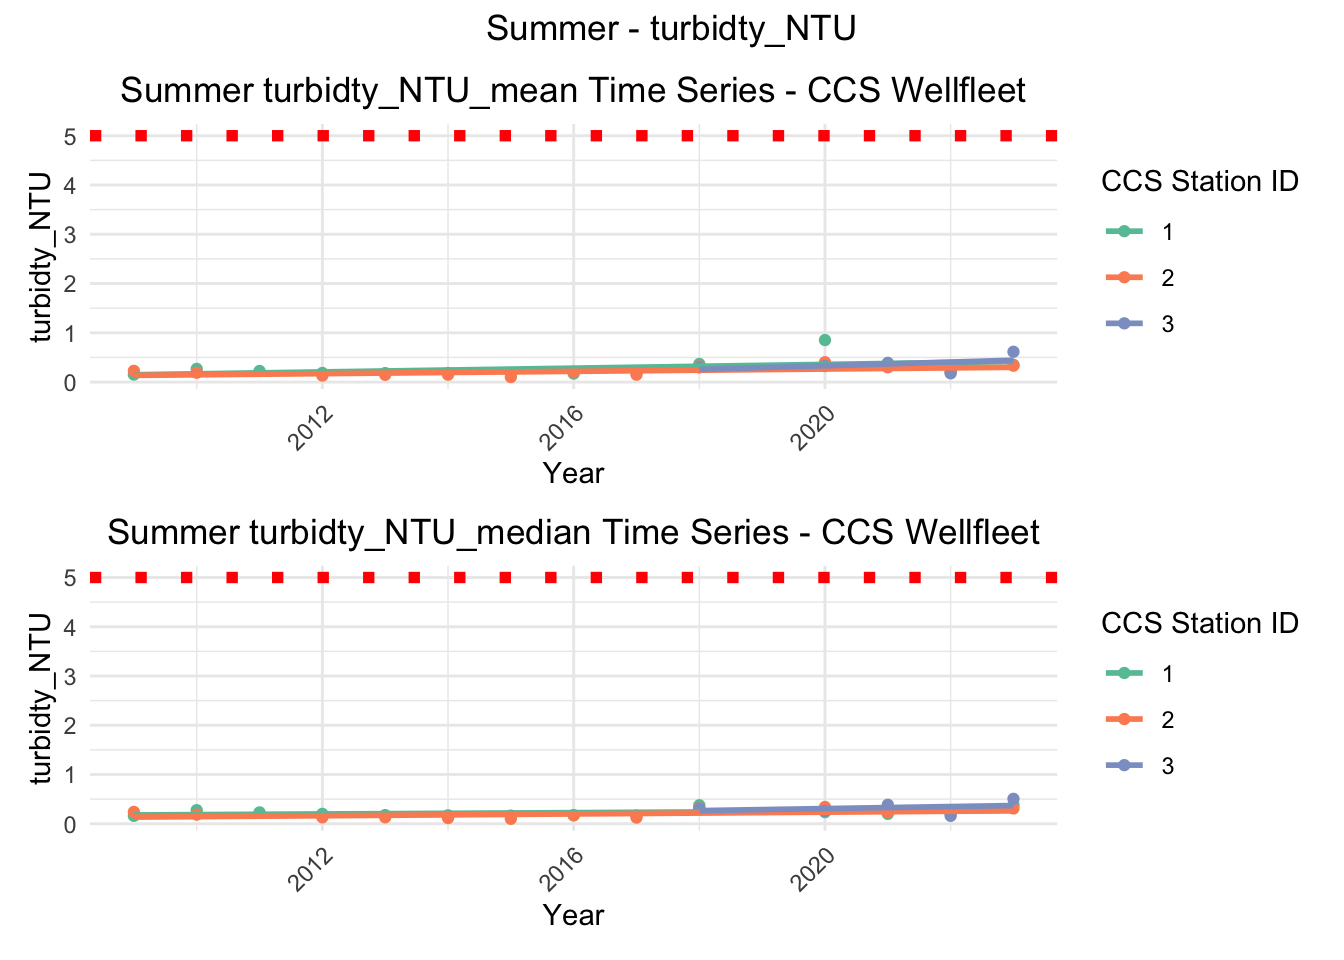
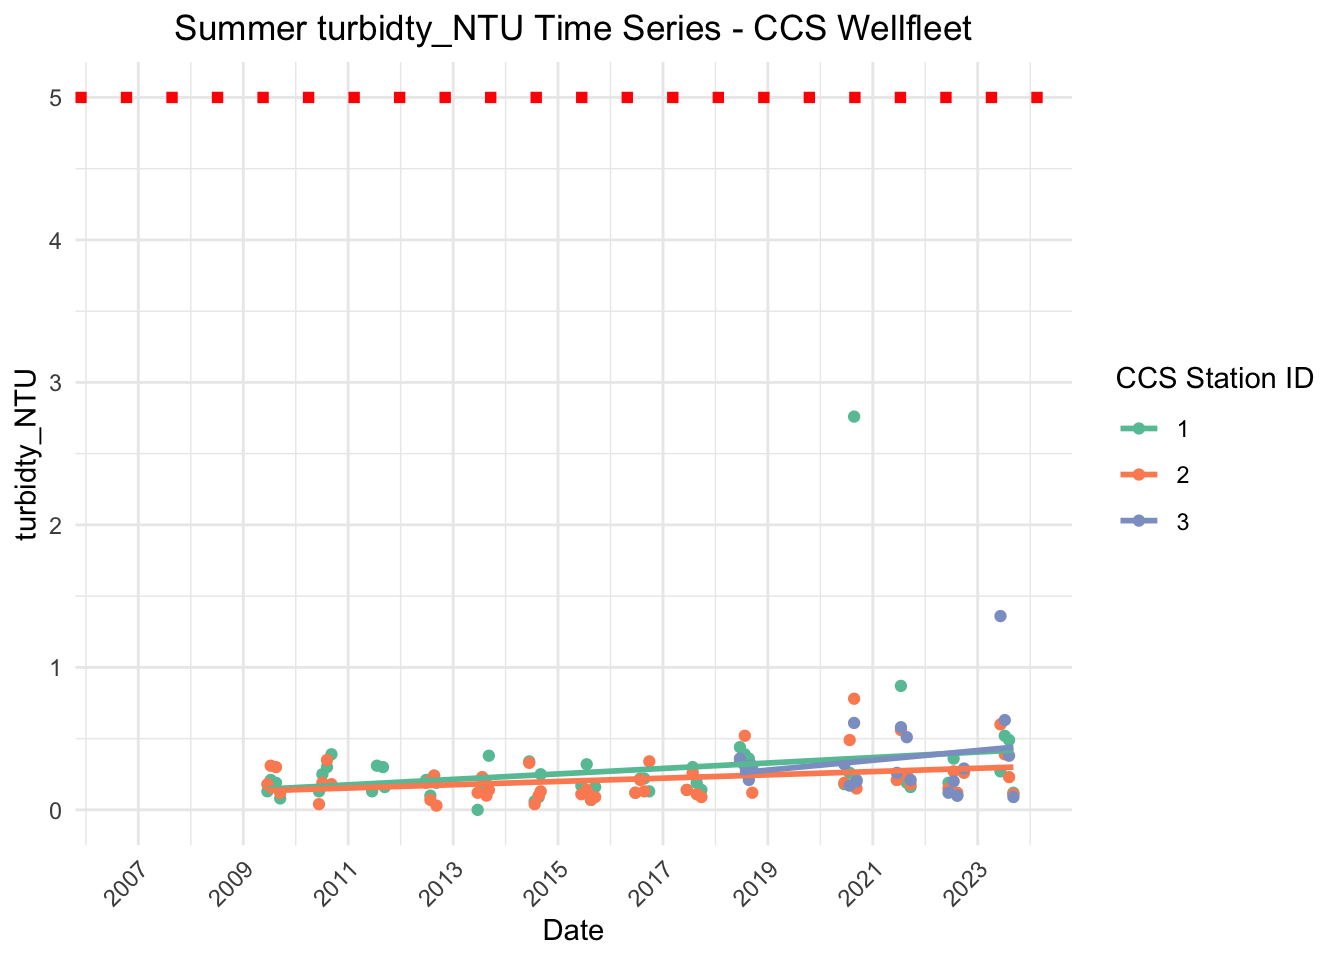
Check data for duplicate rows. Add monthly summer plots.

diff --git a/quarto_docs/ccs_stations.html b/quarto_docs/ccs_stations.html
@@ -301,7 +301,7 @@ pre > code.sourceCode > span > a:first-child::before { text-decoration: underlin
 <span id="cb7-12"><a href="#cb7-12" aria-hidden="true" tabindex="-1"></a>    <span class="fu">labs</span>(<span class="at">x =</span> <span class="st">"Date"</span>,</span>
 <span id="cb7-13"><a href="#cb7-13" aria-hidden="true" tabindex="-1"></a>         <span class="at">y =</span> var,</span>
 <span id="cb7-14"><a href="#cb7-14" aria-hidden="true" tabindex="-1"></a>         <span class="at">color =</span> <span class="st">"CCS Station ID"</span>,</span>
-<span id="cb7-15"><a href="#cb7-15" aria-hidden="true" tabindex="-1"></a>         <span class="at">title =</span> <span class="fu">paste</span>(var, <span class="st">" Time Series - CCS Wellfleet"</span>)) <span class="sc">+</span></span>
+<span id="cb7-15"><a href="#cb7-15" aria-hidden="true" tabindex="-1"></a>         <span class="at">title =</span> <span class="fu">paste</span>(var, <span class="st">"Time Series - CCS Wellfleet"</span>)) <span class="sc">+</span></span>
 <span id="cb7-16"><a href="#cb7-16" aria-hidden="true" tabindex="-1"></a>    <span class="fu">scale_x_datetime</span>(</span>
 <span id="cb7-17"><a href="#cb7-17" aria-hidden="true" tabindex="-1"></a>      <span class="at">limits =</span> <span class="fu">c</span>(start_year, end_year),</span>
 <span id="cb7-18"><a href="#cb7-18" aria-hidden="true" tabindex="-1"></a>      <span class="at">date_breaks =</span> <span class="st">"2 year"</span>, </span>
@@ -502,49 +502,30 @@ pre > code.sourceCode > span > a:first-child::before { text-decoration: underlin
 </figure>
 </div>
 </div>
-<div class="sourceCode cell-code" id="cb9"><pre class="sourceCode r code-with-copy"><code class="sourceCode r"><span id="cb9-1"><a href="#cb9-1" aria-hidden="true" tabindex="-1"></a><span class="co"># For each relevant variable, plot Summer mean and mean values</span></span>
+<div class="sourceCode cell-code" id="cb9"><pre class="sourceCode r code-with-copy"><code class="sourceCode r"><span id="cb9-1"><a href="#cb9-1" aria-hidden="true" tabindex="-1"></a><span class="co"># For each relevant variable, plot all Summer ~monthly data over time</span></span>
 <span id="cb9-2"><a href="#cb9-2" aria-hidden="true" tabindex="-1"></a><span class="cf">for</span> (var <span class="cf">in</span> wq_variables) {</span>
-<span id="cb9-3"><a href="#cb9-3" aria-hidden="true" tabindex="-1"></a>  </span>
-<span id="cb9-4"><a href="#cb9-4" aria-hidden="true" tabindex="-1"></a>  <span class="co"># Create summer mean plot</span></span>
-<span id="cb9-5"><a href="#cb9-5" aria-hidden="true" tabindex="-1"></a>  var_name <span class="ot">&lt;-</span> <span class="fu">paste0</span>(var, <span class="st">"_mean"</span>)</span>
-<span id="cb9-6"><a href="#cb9-6" aria-hidden="true" tabindex="-1"></a>  p_1 <span class="ot">&lt;-</span> <span class="fu">ggplot</span>(ccs_wellfleet_summers, <span class="fu">aes</span>(<span class="at">x =</span> year_collected,</span>
-<span id="cb9-7"><a href="#cb9-7" aria-hidden="true" tabindex="-1"></a>                                          <span class="at">y =</span> .data[[var_name]],</span>
-<span id="cb9-8"><a href="#cb9-8" aria-hidden="true" tabindex="-1"></a>                                          <span class="at">color =</span> <span class="fu">as.factor</span>(internal_station_id))) <span class="sc">+</span></span>
-<span id="cb9-9"><a href="#cb9-9" aria-hidden="true" tabindex="-1"></a>    <span class="fu">geom_point</span>() <span class="sc">+</span></span>
-<span id="cb9-10"><a href="#cb9-10" aria-hidden="true" tabindex="-1"></a>    <span class="fu">geom_smooth</span>(<span class="at">method =</span> <span class="st">"lm"</span>, <span class="at">se =</span> <span class="cn">FALSE</span>) <span class="sc">+</span></span>
-<span id="cb9-11"><a href="#cb9-11" aria-hidden="true" tabindex="-1"></a>    </span>
-<span id="cb9-12"><a href="#cb9-12" aria-hidden="true" tabindex="-1"></a>    <span class="co"># add threshold line, if available</span></span>
-<span id="cb9-13"><a href="#cb9-13" aria-hidden="true" tabindex="-1"></a>    <span class="fu">geom_hline</span>(<span class="at">yintercept =</span> thresholds[var], <span class="at">linetype =</span> <span class="st">'dotted'</span>, <span class="at">color =</span> <span class="st">'red'</span>, <span class="at">linewidth =</span> <span class="dv">2</span>) <span class="sc">+</span></span>
-<span id="cb9-14"><a href="#cb9-14" aria-hidden="true" tabindex="-1"></a>    </span>
-<span id="cb9-15"><a href="#cb9-15" aria-hidden="true" tabindex="-1"></a>    <span class="fu">labs</span>(<span class="at">x =</span> <span class="st">"Year"</span>,</span>
-<span id="cb9-16"><a href="#cb9-16" aria-hidden="true" tabindex="-1"></a>         <span class="at">y =</span> var,</span>
-<span id="cb9-17"><a href="#cb9-17" aria-hidden="true" tabindex="-1"></a>         <span class="at">color =</span> <span class="st">"CCS Station ID"</span>,</span>
-<span id="cb9-18"><a href="#cb9-18" aria-hidden="true" tabindex="-1"></a>         <span class="at">title =</span> <span class="fu">paste</span>(<span class="st">"Summer"</span>, var_name, <span class="st">"Time Series - CCS Wellfleet"</span>)) <span class="sc">+</span></span>
-<span id="cb9-19"><a href="#cb9-19" aria-hidden="true" tabindex="-1"></a>    <span class="fu">scale_color_brewer</span>(<span class="at">palette =</span> <span class="st">"Set2"</span>)</span>
-<span id="cb9-20"><a href="#cb9-20" aria-hidden="true" tabindex="-1"></a>  </span>
-<span id="cb9-21"><a href="#cb9-21" aria-hidden="true" tabindex="-1"></a>  <span class="co"># Create summer median plot</span></span>
-<span id="cb9-22"><a href="#cb9-22" aria-hidden="true" tabindex="-1"></a>  var_name <span class="ot">&lt;-</span> <span class="fu">paste0</span>(var, <span class="st">"_median"</span>)</span>
-<span id="cb9-23"><a href="#cb9-23" aria-hidden="true" tabindex="-1"></a>  p_2 <span class="ot">&lt;-</span> <span class="fu">ggplot</span>(ccs_wellfleet_summers, <span class="fu">aes</span>(<span class="at">x =</span> year_collected,</span>
-<span id="cb9-24"><a href="#cb9-24" aria-hidden="true" tabindex="-1"></a>                                          <span class="at">y =</span> .data[[var_name]],</span>
-<span id="cb9-25"><a href="#cb9-25" aria-hidden="true" tabindex="-1"></a>                                          <span class="at">color =</span> <span class="fu">as.factor</span>(internal_station_id))) <span class="sc">+</span></span>
-<span id="cb9-26"><a href="#cb9-26" aria-hidden="true" tabindex="-1"></a>    <span class="fu">geom_point</span>() <span class="sc">+</span></span>
-<span id="cb9-27"><a href="#cb9-27" aria-hidden="true" tabindex="-1"></a>    <span class="fu">geom_smooth</span>(<span class="at">method =</span> <span class="st">"lm"</span>, <span class="at">se =</span> <span class="cn">FALSE</span>) <span class="sc">+</span></span>
-<span id="cb9-28"><a href="#cb9-28" aria-hidden="true" tabindex="-1"></a>    </span>
-<span id="cb9-29"><a href="#cb9-29" aria-hidden="true" tabindex="-1"></a>    <span class="co"># add threshold line, if available</span></span>
-<span id="cb9-30"><a href="#cb9-30" aria-hidden="true" tabindex="-1"></a>    <span class="fu">geom_hline</span>(<span class="at">yintercept =</span> thresholds[var], <span class="at">linetype =</span> <span class="st">'dotted'</span>, <span class="at">color =</span> <span class="st">'red'</span>, <span class="at">linewidth =</span> <span class="dv">2</span>) <span class="sc">+</span></span>
-<span id="cb9-31"><a href="#cb9-31" aria-hidden="true" tabindex="-1"></a>    </span>
-<span id="cb9-32"><a href="#cb9-32" aria-hidden="true" tabindex="-1"></a>    <span class="fu">labs</span>(<span class="at">x =</span> <span class="st">"Year"</span>,</span>
-<span id="cb9-33"><a href="#cb9-33" aria-hidden="true" tabindex="-1"></a>         <span class="at">y =</span> var,</span>
-<span id="cb9-34"><a href="#cb9-34" aria-hidden="true" tabindex="-1"></a>         <span class="at">color =</span> <span class="st">"CCS Station ID"</span>,</span>
-<span id="cb9-35"><a href="#cb9-35" aria-hidden="true" tabindex="-1"></a>         <span class="at">title =</span> <span class="fu">paste</span>(<span class="st">"Summer"</span>, var_name, <span class="st">"Time Series - CCS Wellfleet"</span>)) <span class="sc">+</span></span>
-<span id="cb9-36"><a href="#cb9-36" aria-hidden="true" tabindex="-1"></a>    <span class="fu">scale_color_brewer</span>(<span class="at">palette =</span> <span class="st">"Set2"</span>)</span>
-<span id="cb9-37"><a href="#cb9-37" aria-hidden="true" tabindex="-1"></a>  </span>
-<span id="cb9-38"><a href="#cb9-38" aria-hidden="true" tabindex="-1"></a>  combined_plot <span class="ot">&lt;-</span> p_1 <span class="sc">+</span> p_2 <span class="sc">+</span> </span>
-<span id="cb9-39"><a href="#cb9-39" aria-hidden="true" tabindex="-1"></a>    <span class="fu">plot_layout</span>(<span class="at">ncol =</span> <span class="dv">1</span>, <span class="at">heights =</span> <span class="fu">c</span>(<span class="dv">1</span>, <span class="dv">1</span>)) <span class="sc">+</span></span>
-<span id="cb9-40"><a href="#cb9-40" aria-hidden="true" tabindex="-1"></a>    <span class="fu">plot_annotation</span>(<span class="at">title =</span> <span class="fu">paste</span>(<span class="st">"Summer -"</span>, var))</span>
-<span id="cb9-41"><a href="#cb9-41" aria-hidden="true" tabindex="-1"></a>  </span>
-<span id="cb9-42"><a href="#cb9-42" aria-hidden="true" tabindex="-1"></a>  <span class="fu">print</span>(combined_plot)</span>
-<span id="cb9-43"><a href="#cb9-43" aria-hidden="true" tabindex="-1"></a>}</span></code><button title="Copy to Clipboard" class="code-copy-button"><i class="bi"></i></button></pre></div>
+<span id="cb9-3"><a href="#cb9-3" aria-hidden="true" tabindex="-1"></a>  p <span class="ot">&lt;-</span> <span class="fu">ggplot</span>(ccs_wellfleet_full_summers, <span class="fu">aes</span>(<span class="at">x =</span> collected_at,</span>
+<span id="cb9-4"><a href="#cb9-4" aria-hidden="true" tabindex="-1"></a>                                      <span class="at">y =</span> .data[[var]],</span>
+<span id="cb9-5"><a href="#cb9-5" aria-hidden="true" tabindex="-1"></a>                                      <span class="at">color =</span> <span class="fu">as.factor</span>(internal_station_id))) <span class="sc">+</span></span>
+<span id="cb9-6"><a href="#cb9-6" aria-hidden="true" tabindex="-1"></a>    <span class="fu">geom_point</span>() <span class="sc">+</span></span>
+<span id="cb9-7"><a href="#cb9-7" aria-hidden="true" tabindex="-1"></a>    <span class="fu">geom_smooth</span>(<span class="at">method =</span> <span class="st">"lm"</span>, <span class="at">se =</span> <span class="cn">FALSE</span>) <span class="sc">+</span></span>
+<span id="cb9-8"><a href="#cb9-8" aria-hidden="true" tabindex="-1"></a></span>
+<span id="cb9-9"><a href="#cb9-9" aria-hidden="true" tabindex="-1"></a>    <span class="co"># add threshold line, if available</span></span>
+<span id="cb9-10"><a href="#cb9-10" aria-hidden="true" tabindex="-1"></a>    <span class="fu">geom_hline</span>(<span class="at">yintercept =</span> thresholds[var], <span class="at">linetype =</span> <span class="st">'dotted'</span>, <span class="at">color =</span> <span class="st">'red'</span>, <span class="at">linewidth =</span> <span class="dv">2</span>) <span class="sc">+</span></span>
+<span id="cb9-11"><a href="#cb9-11" aria-hidden="true" tabindex="-1"></a></span>
+<span id="cb9-12"><a href="#cb9-12" aria-hidden="true" tabindex="-1"></a>    <span class="fu">labs</span>(<span class="at">x =</span> <span class="st">"Date"</span>,</span>
+<span id="cb9-13"><a href="#cb9-13" aria-hidden="true" tabindex="-1"></a>         <span class="at">y =</span> var,</span>
+<span id="cb9-14"><a href="#cb9-14" aria-hidden="true" tabindex="-1"></a>         <span class="at">color =</span> <span class="st">"CCS Station ID"</span>,</span>
+<span id="cb9-15"><a href="#cb9-15" aria-hidden="true" tabindex="-1"></a>         <span class="at">title =</span> <span class="fu">paste</span>(<span class="st">"Summer"</span>, var, <span class="st">"Time Series - CCS Wellfleet"</span>)) <span class="sc">+</span></span>
+<span id="cb9-16"><a href="#cb9-16" aria-hidden="true" tabindex="-1"></a>    <span class="fu">scale_x_datetime</span>(</span>
+<span id="cb9-17"><a href="#cb9-17" aria-hidden="true" tabindex="-1"></a>      <span class="at">limits =</span> <span class="fu">c</span>(start_year, end_year),</span>
+<span id="cb9-18"><a href="#cb9-18" aria-hidden="true" tabindex="-1"></a>      <span class="at">date_breaks =</span> <span class="st">"2 year"</span>,</span>
+<span id="cb9-19"><a href="#cb9-19" aria-hidden="true" tabindex="-1"></a>      <span class="at">date_labels =</span> <span class="st">"%Y"</span>,</span>
+<span id="cb9-20"><a href="#cb9-20" aria-hidden="true" tabindex="-1"></a>      <span class="at">labels =</span> <span class="fu">date_format</span>(<span class="st">"%Y"</span>)) <span class="sc">+</span></span>
+<span id="cb9-21"><a href="#cb9-21" aria-hidden="true" tabindex="-1"></a>    <span class="fu">scale_color_brewer</span>(<span class="at">palette =</span> <span class="st">"Set2"</span>)</span>
+<span id="cb9-22"><a href="#cb9-22" aria-hidden="true" tabindex="-1"></a></span>
+<span id="cb9-23"><a href="#cb9-23" aria-hidden="true" tabindex="-1"></a>  <span class="fu">print</span>(p)</span>
+<span id="cb9-24"><a href="#cb9-24" aria-hidden="true" tabindex="-1"></a>}</span></code><button title="Copy to Clipboard" class="code-copy-button"><i class="bi"></i></button></pre></div>
 <div class="cell-output-display">
 <div>
 <figure class="figure">
@@ -619,6 +600,126 @@ pre > code.sourceCode > span > a:first-child::before { text-decoration: underlin
 <div>
 <figure class="figure">
 <p><img src="ccs_stations_files/figure-html/Plot%20All%20Data%20Over%20Time-33.png" class="img-fluid figure-img" width="672"></p>
+</figure>
+</div>
+</div>
+<div class="sourceCode cell-code" id="cb10"><pre class="sourceCode r code-with-copy"><code class="sourceCode r"><span id="cb10-1"><a href="#cb10-1" aria-hidden="true" tabindex="-1"></a><span class="co"># For each relevant variable, plot Summer mean and mean values</span></span>
+<span id="cb10-2"><a href="#cb10-2" aria-hidden="true" tabindex="-1"></a><span class="cf">for</span> (var <span class="cf">in</span> wq_variables) {</span>
+<span id="cb10-3"><a href="#cb10-3" aria-hidden="true" tabindex="-1"></a>  </span>
+<span id="cb10-4"><a href="#cb10-4" aria-hidden="true" tabindex="-1"></a>  <span class="co"># Create summer mean plot</span></span>
+<span id="cb10-5"><a href="#cb10-5" aria-hidden="true" tabindex="-1"></a>  var_name <span class="ot">&lt;-</span> <span class="fu">paste0</span>(var, <span class="st">"_mean"</span>)</span>
+<span id="cb10-6"><a href="#cb10-6" aria-hidden="true" tabindex="-1"></a>  p_1 <span class="ot">&lt;-</span> <span class="fu">ggplot</span>(ccs_wellfleet_summers, <span class="fu">aes</span>(<span class="at">x =</span> year_collected,</span>
+<span id="cb10-7"><a href="#cb10-7" aria-hidden="true" tabindex="-1"></a>                                          <span class="at">y =</span> .data[[var_name]],</span>
+<span id="cb10-8"><a href="#cb10-8" aria-hidden="true" tabindex="-1"></a>                                          <span class="at">color =</span> <span class="fu">as.factor</span>(internal_station_id))) <span class="sc">+</span></span>
+<span id="cb10-9"><a href="#cb10-9" aria-hidden="true" tabindex="-1"></a>    <span class="fu">geom_point</span>() <span class="sc">+</span></span>
+<span id="cb10-10"><a href="#cb10-10" aria-hidden="true" tabindex="-1"></a>    <span class="fu">geom_smooth</span>(<span class="at">method =</span> <span class="st">"lm"</span>, <span class="at">se =</span> <span class="cn">FALSE</span>) <span class="sc">+</span></span>
+<span id="cb10-11"><a href="#cb10-11" aria-hidden="true" tabindex="-1"></a>    </span>
+<span id="cb10-12"><a href="#cb10-12" aria-hidden="true" tabindex="-1"></a>    <span class="co"># add threshold line, if available</span></span>
+<span id="cb10-13"><a href="#cb10-13" aria-hidden="true" tabindex="-1"></a>    <span class="fu">geom_hline</span>(<span class="at">yintercept =</span> thresholds[var], <span class="at">linetype =</span> <span class="st">'dotted'</span>, <span class="at">color =</span> <span class="st">'red'</span>, <span class="at">linewidth =</span> <span class="dv">2</span>) <span class="sc">+</span></span>
+<span id="cb10-14"><a href="#cb10-14" aria-hidden="true" tabindex="-1"></a>    </span>
+<span id="cb10-15"><a href="#cb10-15" aria-hidden="true" tabindex="-1"></a>    <span class="fu">labs</span>(<span class="at">x =</span> <span class="st">"Year"</span>,</span>
+<span id="cb10-16"><a href="#cb10-16" aria-hidden="true" tabindex="-1"></a>         <span class="at">y =</span> var,</span>
+<span id="cb10-17"><a href="#cb10-17" aria-hidden="true" tabindex="-1"></a>         <span class="at">color =</span> <span class="st">"CCS Station ID"</span>,</span>
+<span id="cb10-18"><a href="#cb10-18" aria-hidden="true" tabindex="-1"></a>         <span class="at">title =</span> <span class="fu">paste</span>(<span class="st">"Summer"</span>, var_name, <span class="st">"Time Series - CCS Wellfleet"</span>)) <span class="sc">+</span></span>
+<span id="cb10-19"><a href="#cb10-19" aria-hidden="true" tabindex="-1"></a>    <span class="fu">scale_color_brewer</span>(<span class="at">palette =</span> <span class="st">"Set2"</span>)</span>
+<span id="cb10-20"><a href="#cb10-20" aria-hidden="true" tabindex="-1"></a>  </span>
+<span id="cb10-21"><a href="#cb10-21" aria-hidden="true" tabindex="-1"></a>  <span class="co"># Create summer median plot</span></span>
+<span id="cb10-22"><a href="#cb10-22" aria-hidden="true" tabindex="-1"></a>  var_name <span class="ot">&lt;-</span> <span class="fu">paste0</span>(var, <span class="st">"_median"</span>)</span>
+<span id="cb10-23"><a href="#cb10-23" aria-hidden="true" tabindex="-1"></a>  p_2 <span class="ot">&lt;-</span> <span class="fu">ggplot</span>(ccs_wellfleet_summers, <span class="fu">aes</span>(<span class="at">x =</span> year_collected,</span>
+<span id="cb10-24"><a href="#cb10-24" aria-hidden="true" tabindex="-1"></a>                                          <span class="at">y =</span> .data[[var_name]],</span>
+<span id="cb10-25"><a href="#cb10-25" aria-hidden="true" tabindex="-1"></a>                                          <span class="at">color =</span> <span class="fu">as.factor</span>(internal_station_id))) <span class="sc">+</span></span>
+<span id="cb10-26"><a href="#cb10-26" aria-hidden="true" tabindex="-1"></a>    <span class="fu">geom_point</span>() <span class="sc">+</span></span>
+<span id="cb10-27"><a href="#cb10-27" aria-hidden="true" tabindex="-1"></a>    <span class="fu">geom_smooth</span>(<span class="at">method =</span> <span class="st">"lm"</span>, <span class="at">se =</span> <span class="cn">FALSE</span>) <span class="sc">+</span></span>
+<span id="cb10-28"><a href="#cb10-28" aria-hidden="true" tabindex="-1"></a>    </span>
+<span id="cb10-29"><a href="#cb10-29" aria-hidden="true" tabindex="-1"></a>    <span class="co"># add threshold line, if available</span></span>
+<span id="cb10-30"><a href="#cb10-30" aria-hidden="true" tabindex="-1"></a>    <span class="fu">geom_hline</span>(<span class="at">yintercept =</span> thresholds[var], <span class="at">linetype =</span> <span class="st">'dotted'</span>, <span class="at">color =</span> <span class="st">'red'</span>, <span class="at">linewidth =</span> <span class="dv">2</span>) <span class="sc">+</span></span>
+<span id="cb10-31"><a href="#cb10-31" aria-hidden="true" tabindex="-1"></a>    </span>
+<span id="cb10-32"><a href="#cb10-32" aria-hidden="true" tabindex="-1"></a>    <span class="fu">labs</span>(<span class="at">x =</span> <span class="st">"Year"</span>,</span>
+<span id="cb10-33"><a href="#cb10-33" aria-hidden="true" tabindex="-1"></a>         <span class="at">y =</span> var,</span>
+<span id="cb10-34"><a href="#cb10-34" aria-hidden="true" tabindex="-1"></a>         <span class="at">color =</span> <span class="st">"CCS Station ID"</span>,</span>
+<span id="cb10-35"><a href="#cb10-35" aria-hidden="true" tabindex="-1"></a>         <span class="at">title =</span> <span class="fu">paste</span>(<span class="st">"Summer"</span>, var_name, <span class="st">"Time Series - CCS Wellfleet"</span>)) <span class="sc">+</span></span>
+<span id="cb10-36"><a href="#cb10-36" aria-hidden="true" tabindex="-1"></a>    <span class="fu">scale_color_brewer</span>(<span class="at">palette =</span> <span class="st">"Set2"</span>)</span>
+<span id="cb10-37"><a href="#cb10-37" aria-hidden="true" tabindex="-1"></a>  </span>
+<span id="cb10-38"><a href="#cb10-38" aria-hidden="true" tabindex="-1"></a>  combined_plot <span class="ot">&lt;-</span> p_1 <span class="sc">+</span> p_2 <span class="sc">+</span> </span>
+<span id="cb10-39"><a href="#cb10-39" aria-hidden="true" tabindex="-1"></a>    <span class="fu">plot_layout</span>(<span class="at">ncol =</span> <span class="dv">1</span>, <span class="at">heights =</span> <span class="fu">c</span>(<span class="dv">1</span>, <span class="dv">1</span>)) <span class="sc">+</span></span>
+<span id="cb10-40"><a href="#cb10-40" aria-hidden="true" tabindex="-1"></a>    <span class="fu">plot_annotation</span>(<span class="at">title =</span> <span class="fu">paste</span>(<span class="st">"Summer -"</span>, var))</span>
+<span id="cb10-41"><a href="#cb10-41" aria-hidden="true" tabindex="-1"></a>  </span>
+<span id="cb10-42"><a href="#cb10-42" aria-hidden="true" tabindex="-1"></a>  <span class="fu">print</span>(combined_plot)</span>
+<span id="cb10-43"><a href="#cb10-43" aria-hidden="true" tabindex="-1"></a>}</span></code><button title="Copy to Clipboard" class="code-copy-button"><i class="bi"></i></button></pre></div>
+<div class="cell-output-display">
+<div>
+<figure class="figure">
+<p><img src="ccs_stations_files/figure-html/Plot%20All%20Data%20Over%20Time-34.png" class="img-fluid figure-img" width="672"></p>
+</figure>
+</div>
+</div>
+<div class="cell-output-display">
+<div>
+<figure class="figure">
+<p><img src="ccs_stations_files/figure-html/Plot%20All%20Data%20Over%20Time-35.png" class="img-fluid figure-img" width="672"></p>
+</figure>
+</div>
+</div>
+<div class="cell-output-display">
+<div>
+<figure class="figure">
+<p><img src="ccs_stations_files/figure-html/Plot%20All%20Data%20Over%20Time-36.png" class="img-fluid figure-img" width="672"></p>
+</figure>
+</div>
+</div>
+<div class="cell-output-display">
+<div>
+<figure class="figure">
+<p><img src="ccs_stations_files/figure-html/Plot%20All%20Data%20Over%20Time-37.png" class="img-fluid figure-img" width="672"></p>
+</figure>
+</div>
+</div>
+<div class="cell-output-display">
+<div>
+<figure class="figure">
+<p><img src="ccs_stations_files/figure-html/Plot%20All%20Data%20Over%20Time-38.png" class="img-fluid figure-img" width="672"></p>
+</figure>
+</div>
+</div>
+<div class="cell-output-display">
+<div>
+<figure class="figure">
+<p><img src="ccs_stations_files/figure-html/Plot%20All%20Data%20Over%20Time-39.png" class="img-fluid figure-img" width="672"></p>
+</figure>
+</div>
+</div>
+<div class="cell-output-display">
+<div>
+<figure class="figure">
+<p><img src="ccs_stations_files/figure-html/Plot%20All%20Data%20Over%20Time-40.png" class="img-fluid figure-img" width="672"></p>
+</figure>
+</div>
+</div>
+<div class="cell-output-display">
+<div>
+<figure class="figure">
+<p><img src="ccs_stations_files/figure-html/Plot%20All%20Data%20Over%20Time-41.png" class="img-fluid figure-img" width="672"></p>
+</figure>
+</div>
+</div>
+<div class="cell-output-display">
+<div>
+<figure class="figure">
+<p><img src="ccs_stations_files/figure-html/Plot%20All%20Data%20Over%20Time-42.png" class="img-fluid figure-img" width="672"></p>
+</figure>
+</div>
+</div>
+<div class="cell-output-display">
+<div>
+<figure class="figure">
+<p><img src="ccs_stations_files/figure-html/Plot%20All%20Data%20Over%20Time-43.png" class="img-fluid figure-img" width="672"></p>
+</figure>
+</div>
+</div>
+<div class="cell-output-display">
+<div>
+<figure class="figure">
+<p><img src="ccs_stations_files/figure-html/Plot%20All%20Data%20Over%20Time-44.png" class="img-fluid figure-img" width="672"></p>
 </figure>
 </div>
 </div>
